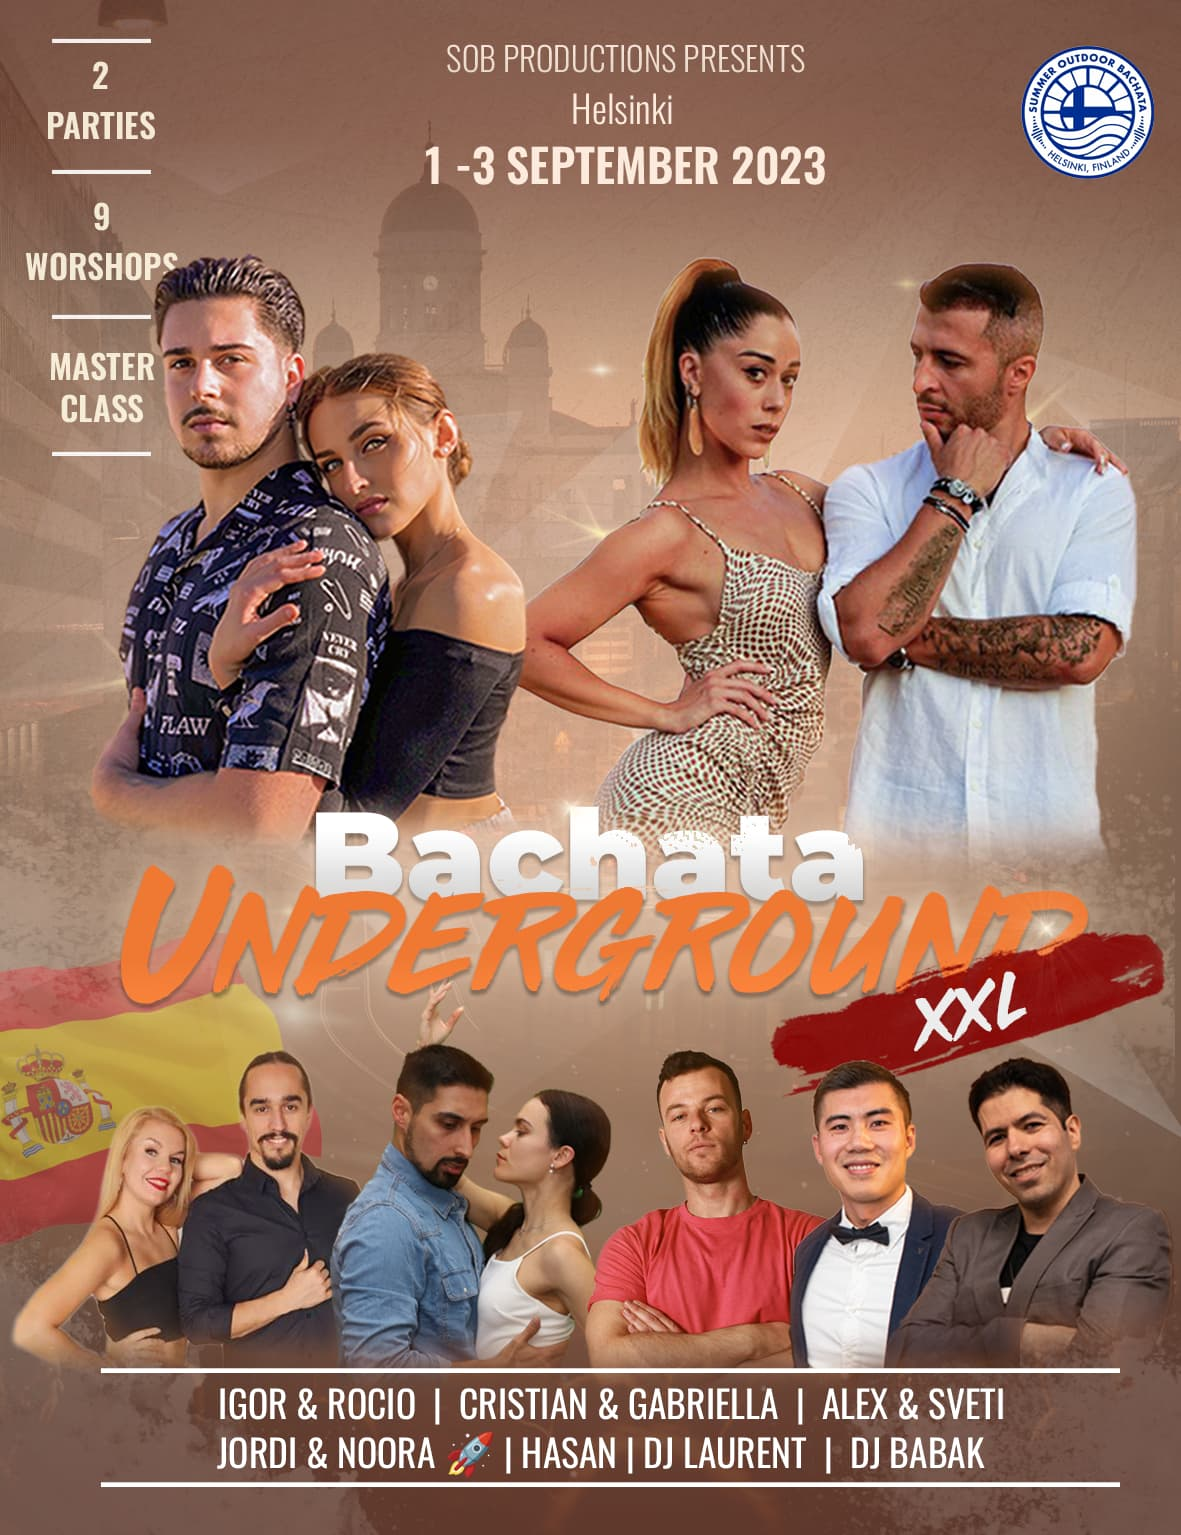
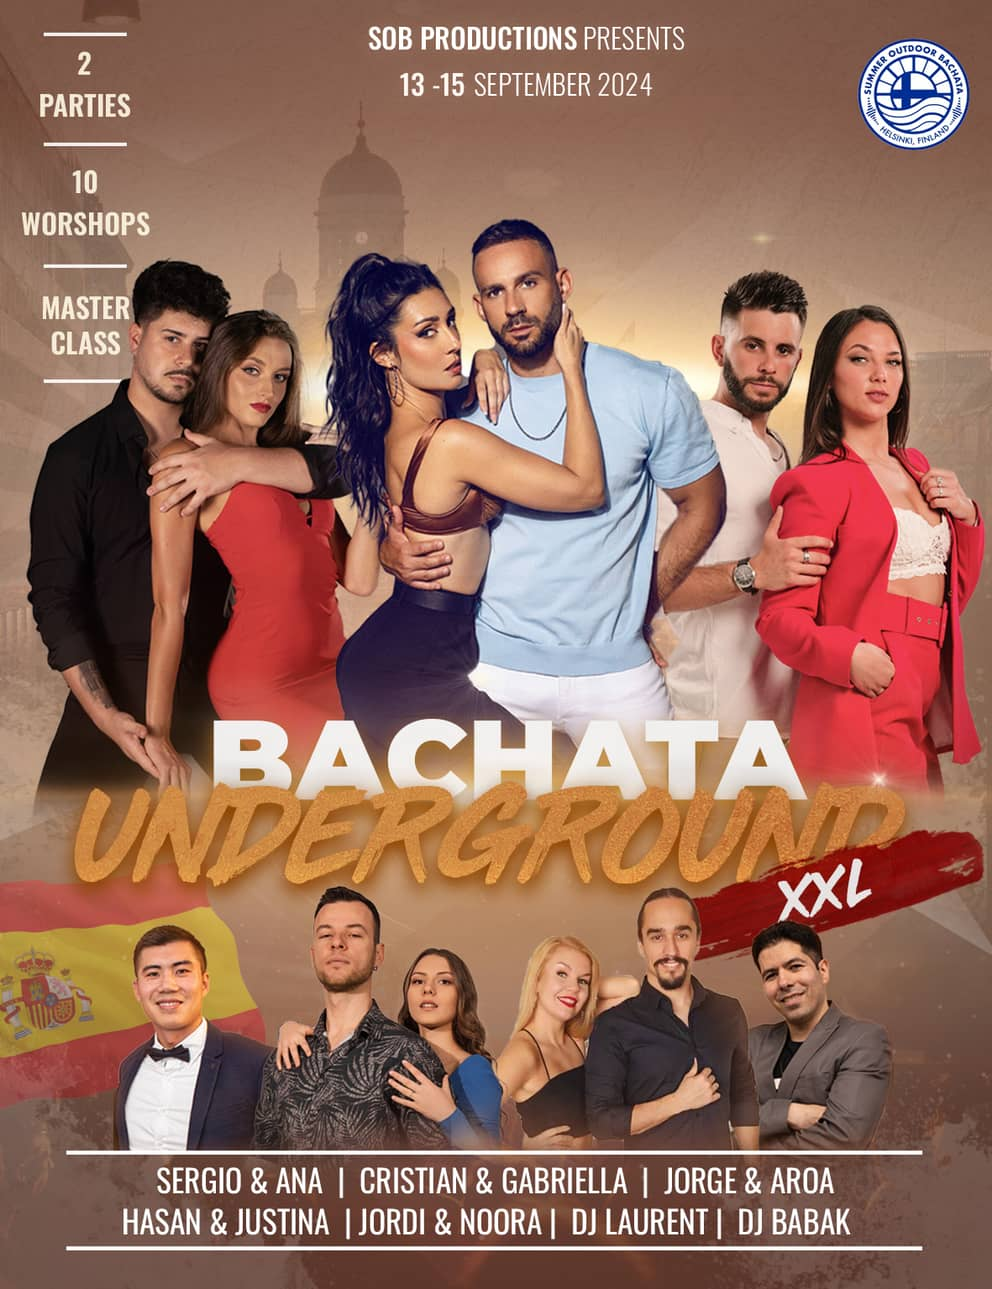
open tickets for 2024

diff --git a/src/pages/tickets.tsx b/src/pages/tickets.tsx
@@ -14,11 +14,7 @@ export default function Tickets() {
       </Head>
       <HeroImage title="TICKETS" />
 
-      <div className="container mx-auto pb-24">
-        <h1 className="text-4xl font-bold">COMING SOON</h1>
-      </div>
-
-      <div className="container mx-auto hidden">
+      <div className="container mx-auto">
         <section className="px-4 md:px-0 pt-10 pb-6 flex flex-col-reverse md:flex-row">
           <div className="w-full md:w-1/2 ">
             <h5 className="font-bold text-xl md:text-2xl pb-4">Full pass includes:</h5>
@@ -32,16 +28,16 @@ export default function Tickets() {
 
             <h6 className="font-bold text-lg md:text-xl pb-4 mt-6">Confirmed artists:</h6>
             <ul>
-              <li className="pb-2">🌟 Igor and Rocio (2h)</li>
-              <li className="pb-2">🌟 Cristian and Gabriella (3h)</li>
-              <li className="pb-2">🌟 Alex and Sveti (2h)</li>
-              <li className="pb-2">🌟 Hasan (1h)</li>
+              <li className="pb-2">🌟 Sergio and Ana (2h)</li>
+              <li className="pb-2">🌟 Cristian and Gabriella (2h)</li>
+              <li className="pb-2">🌟 Jorge and Aroa (2h)</li>
+              <li className="pb-2">🌟 Hasan and Justina (2h)</li>
               <li className="pb-2">🌟 Jordi and Noora (1h)</li>
             </ul>
 
             <h5 className="font-bold text-xl md:text-2xl pb-6 mt-6">Not included in Full pass:</h5>
             <ul className="pb-8">
-              <li>🔸 Masterclass with Igor and Rocio (1h)</li>
+              <li>🔸 Masterclass with Cristian and Gabriella (1h)</li>
             </ul>
 
             <p className="font-semibold text-neutral-400">Refund policy</p>
@@ -63,51 +59,53 @@ export default function Tickets() {
         <section className="pb-8 mx-4 md:mx-0">
           <h2 className="text-4xl md:text-6xl font-extrabold italic pb-8">PRICES</h2>
 
-          <PriceRow showPerson title="Super Early Bird Couple Pass" price={154}>
+          <PriceRow showPerson title="Super Early Bird Couple Pass" price={174}>
             <p className="text-neutral-500 text-sm">
-              <span className="line-through">Only 5 couple passes available!</span>
+              <span>Only 5 couple passes available!</span>
               <br />
-              <span className="font-bold text-red-500">SOLD OUT!</span>
+              {/* <span className="font-bold text-red-500">SOLD OUT!</span> */}
             </p>
           </PriceRow>
 
-          <PriceRow showPerson title="Early Bird Couple Pass" price={164}>
+          <PriceRow showPerson title="Early Bird Couple Pass" price={186}>
             <p className="text-neutral-500 text-sm">
-              <span className="line-through">Available only until May 15th!</span>
+              <span>Only 5 couple passes available!</span>
               <br />
-              <span className="font-bold text-red-500">SOLD OUT!</span>
+              {/* <span className="font-bold text-red-500">SOLD OUT!</span> */}
             </p>
           </PriceRow>
 
-          <PriceRow title="Early Bird Full Pass" price={87}>
+          <PriceRow title="Early Bird Full Pass Follower" price={93}>
             <p className="text-neutral-500 text-sm">
-              <span className="line-through">Available only until May 15th!</span>
+              <span>Only 8 available!</span>
               <br />
-              <span className="font-bold text-red-500">SOLD OUT!</span>
+              {/* <span className="font-bold text-red-500">SOLD OUT!</span> */}
             </p>
           </PriceRow>
 
-          <PriceRow title="Full Pass Leader" price={95}>
+          <PriceRow title="Early Bird Full Pass Leader" price={93}>
             <p className="text-neutral-500 text-sm">
-              <span className="font-bold text-red-500">SOLD OUT!</span>
+              <span>Only 8 available!</span>
+              <br />
+              {/* <span className="font-bold text-red-500">SOLD OUT!</span> */}
             </p>
           </PriceRow>
 
-          <PriceRow title="Full Pass Follower" price={95}>
-            <p className="text-neutral-500 text-sm">
-              <span className="font-bold text-red-500">SOLD OUT!</span>
-            </p>
+          {/* <PriceRow title="Full Pass Leader" price={99}>
+            <p className="text-neutral-500 text-sm"></p>
           </PriceRow>
 
-          <PriceRow showPerson title="Couple Pass Leader/Follower" price={180}>
-            <p className="text-neutral-500 text-sm">
-              <span className="font-bold text-red-500">SOLD OUT!</span>
-            </p>
+          <PriceRow title="Full Pass Follower" price={99}>
+            <p className="text-neutral-500 text-sm"></p>
           </PriceRow>
 
-          <PriceRow title="Party Pass" price={40}>
+          <PriceRow showPerson title="Couple Pass Leader/Follower" price={190}>
+            <p className="text-neutral-500 text-sm"></p>
+          </PriceRow> */}
+
+          {/* <PriceRow title="Party Pass" price={40}>
             <p className="text-neutral-500 text-sm">Access to friday, saturday and sunday parties</p>
-          </PriceRow>
+          </PriceRow> */}
         </section>
 
         {/* Ticket Tailor embedded code */}
@@ -121,8 +119,8 @@ export default function Tickets() {
             id="someId"
             dangerouslySetInnerHTML={{
               __html: `<!-- Ticket Tailor Widget. Paste this into your website where you want the widget to appear. Do not change the code or the widget may not work properly. -->
-            <div class="tt-widget"><div class="tt-widget-fallback"><p><a href="https://www.tickettailor.com/checkout/new-session/id/1979805/chk/f691/?ref=website_widget" target="_blank">Click here to buy tickets</a><br /><small><a href="https://www.tickettailor.com?rf=wdg_136742" class="tt-widget-powered">Sell tickets online with Ticket Tailor</a></small></p></div><script src="https://cdn.tickettailor.com/js/widgets/min/widget.js" data-url="https://www.tickettailor.com/checkout/new-session/id/1979805/chk/f691/" data-type="inline" data-inline-minimal="true" data-inline-show-logo="false" data-inline-bg-fill="true" data-inline-inherit-ref-from-url-param="" data-inline-ref="website_widget"></script></div>
-            <!-- End of Ticket Tailor Widget -->`,
+              <div class="tt-widget"><div class="tt-widget-fallback"><p><a href="https://www.tickettailor.com/checkout/new-session/id/3386120/chk/f7ef/" target="_blank">Click here to buy tickets</a><br /><small><a href="https://www.tickettailor.com?rf=wdg_136742" class="tt-widget-powered">Sell tickets online with Ticket Tailor</a></small></p></div><script src="https://cdn.tickettailor.com/js/widgets/min/widget.js" data-url="https://www.tickettailor.com/checkout/new-session/id/3386120/chk/f7ef/" data-type="inline" data-inline-minimal="true" data-inline-show-logo="false" data-inline-bg-fill="false" data-inline-inherit-ref-from-url-param="" data-inline-ref=""></script></div>
+              <!-- End of Ticket Tailor Widget -->`,
             }}
           />
 

diff --git a/src/pages/index.tsx b/src/pages/index.tsx
@@ -44,9 +44,9 @@ export default function Home() {
 
             <ul className="py-8 md:py-14">
               <li className="text-gray-300 font-semibold text-xl md:text-2xl pb-4">International teachers</li>
-              <li className="text-gray-300 font-semibold text-xl md:text-2xl pb-4">10 hours workshops</li>
+              <li className="text-gray-300 font-semibold text-xl md:text-2xl pb-4">9 hours workshops</li>
               <li className="text-gray-300 font-semibold text-xl md:text-2xl pb-4">1 masterclass</li>
-              <li className="text-gray-300 font-semibold text-xl md:text-2xl pb-4">2 parties</li>
+              <li className="text-gray-300 font-semibold text-xl md:text-2xl pb-4">3 parties</li>
               <li className="text-gray-300 font-semibold text-xl md:text-2xl pb-4">Guest dancers from Europe</li>
             </ul>
             {/* <MainButton text="Program" href="/program" /> */}
